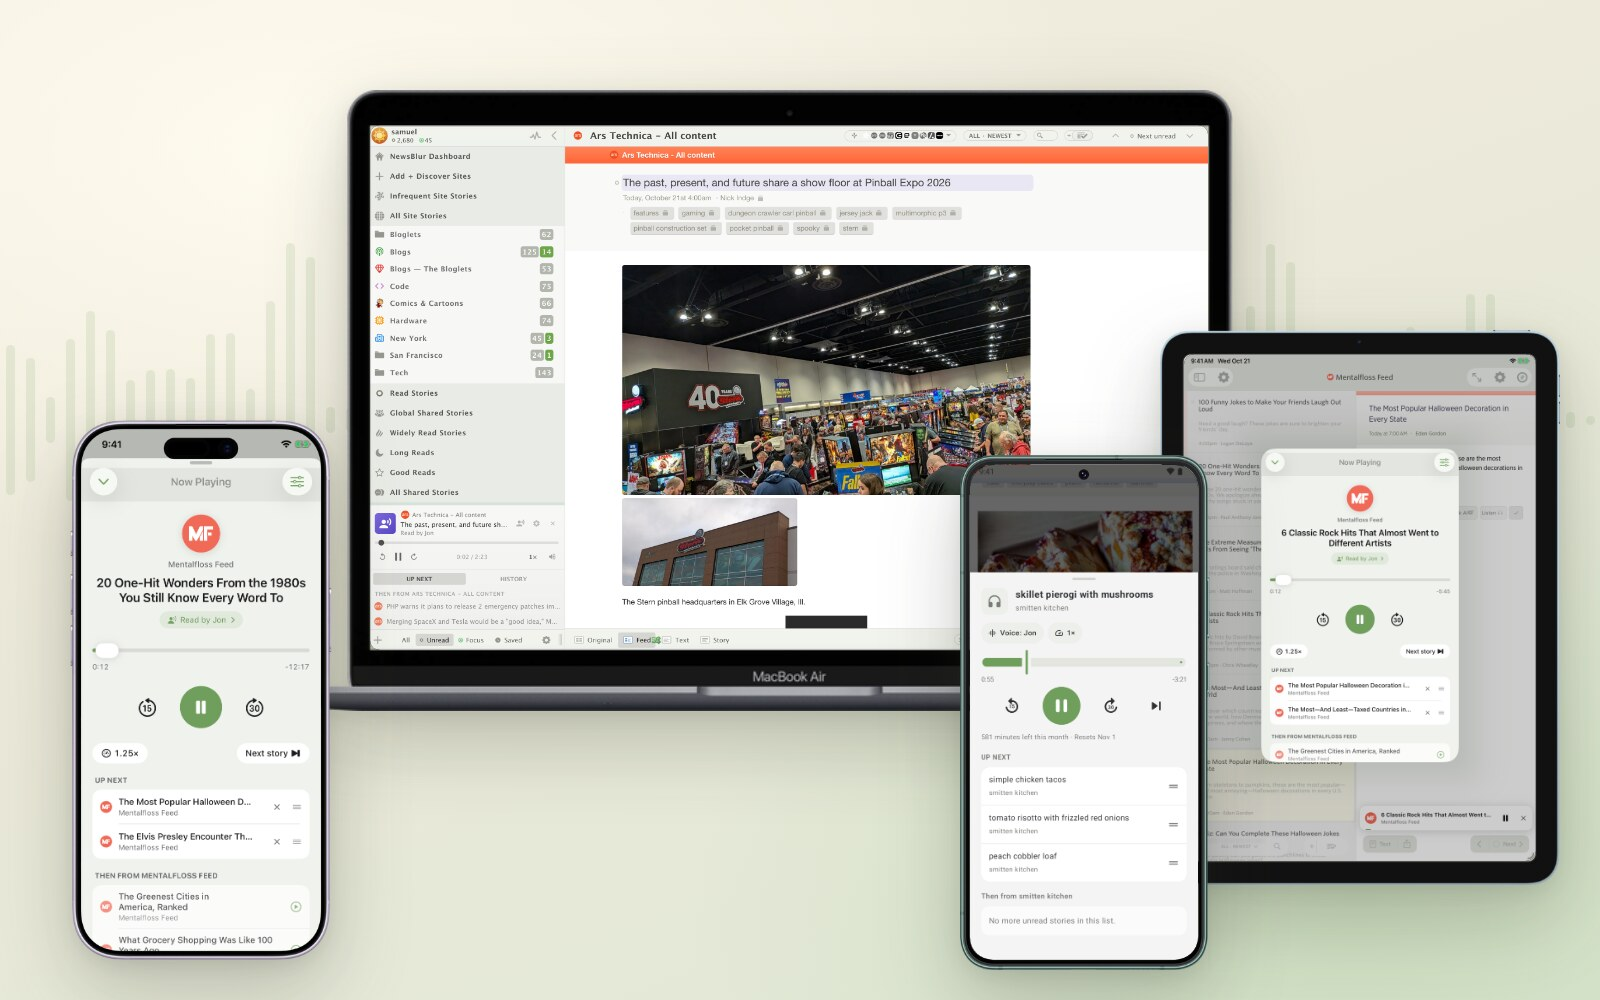
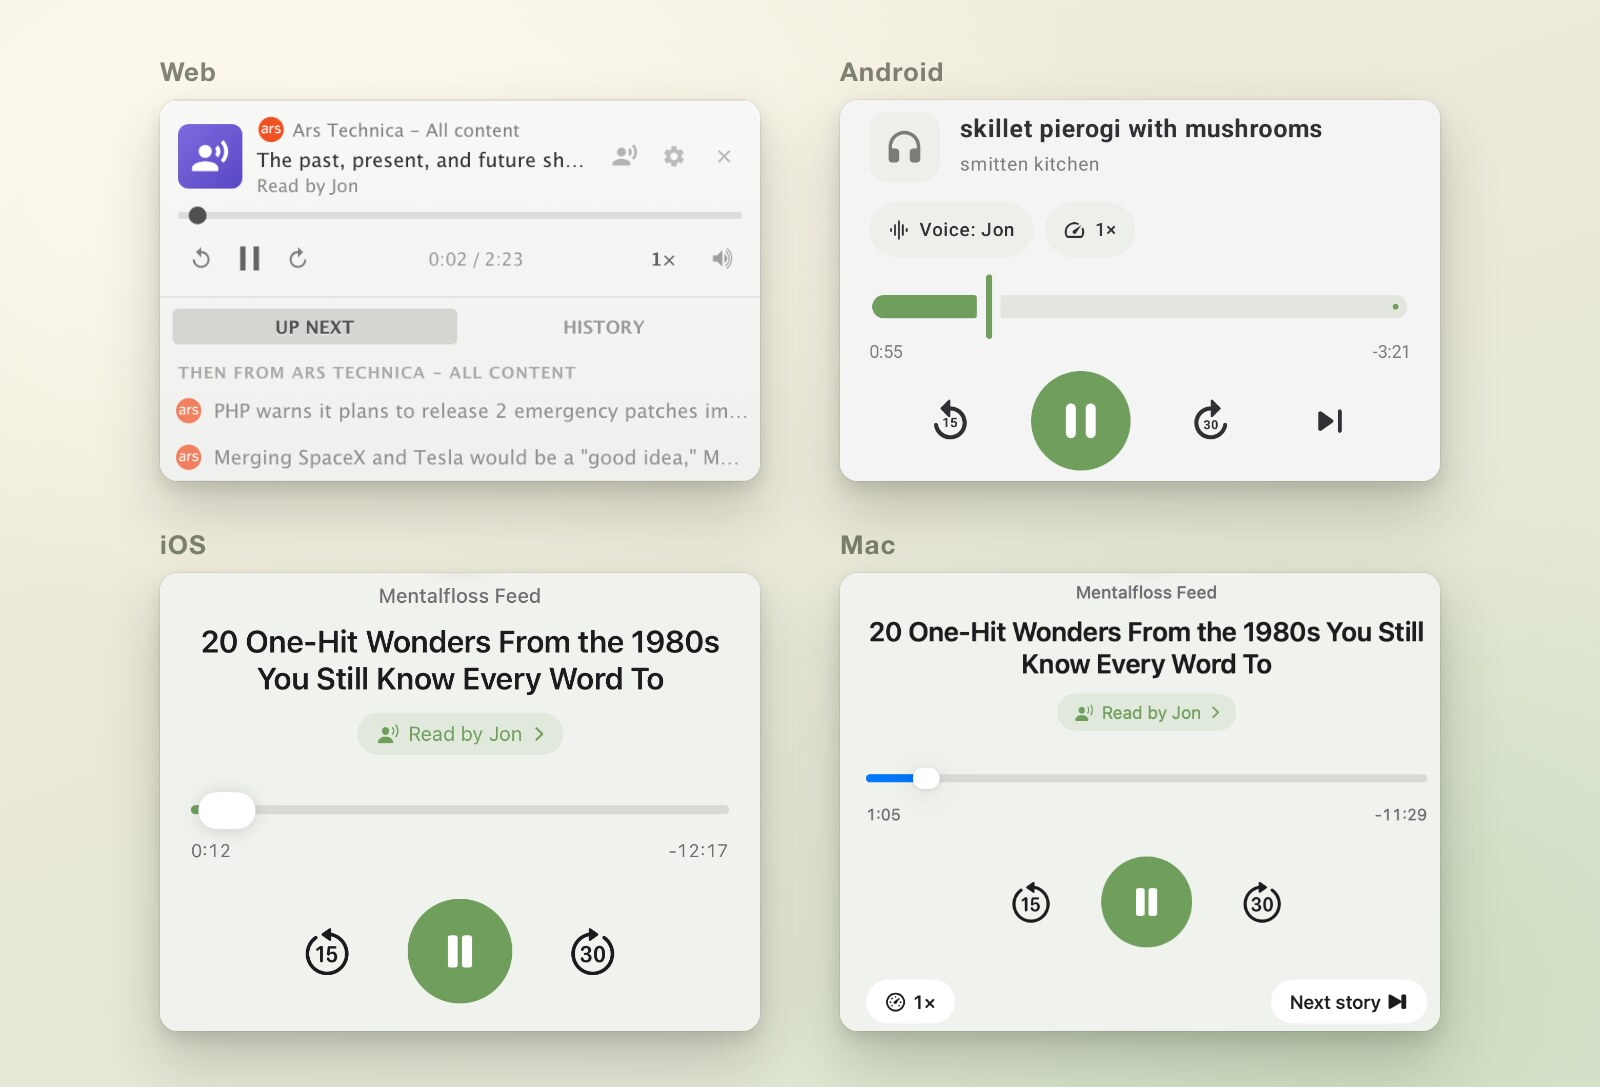
Redo the Listen post's hero and Press Listen images as labeled platform crops
Both showed whole device screens too small to read at blog width. The
hero is now a 2x2 grid of each platform's playing controls, and Press
Listen a vertical list of where the button lives on each platform, both
at the same text size as the story buttons image.

diff --git a/blog/_asset_sources/listen/start.html b/blog/_asset_sources/listen/start.html
@@ -1,12 +1,17 @@
-<!doctype html><html><head><meta charset="utf-8"><link rel="stylesheet" href="base.css"></head><body>
-<div class="stage " style="width:1400px;height:1000px">
-<div class="wave" data-bars="70" data-bar="9" data-gap="11" data-height="460" data-seed="2.1" style="left:0;right:0;top:250px;height:500px;justify-content:center;color:rgba(110,156,85,0.12)"></div>
-<div class="device iphone shadow" style="left:50px;top:60px;width:420px;"><div class="screen"><img src="shots/iPhone/01-listen-button.png"></div><img class="frame" src="frames/apple-iphone-17-2025.png"></div>
-<div class="device galaxy shadow" style="left:500px;top:100px;width:420px;"><div class="screen"><img src="shots/Android/01-listen-button.png"></div><img class="frame" src="frames/samsung-galaxy-s22-2022.png"></div>
-<div class="label" style="left:960px;top:92px;width:380px;text-align:left">Web</div>
-<div class="card" style="left:960px;top:130px;width:390px;height:335px;"><img src="shots/Web/01-listen-button.png" style="width:2880.0px;left:-2490.0px;top:-1388.0px"></div>
-<div class="label" style="left:960px;top:532px;width:380px;text-align:left">Mac</div>
-<div class="card" style="left:960px;top:570px;width:339px;height:297px;"><img src="shots/Mac/06-menu-and-toolbar.png" style="width:1907.3px;left:0px;top:0px"></div>
+<!doctype html><html><head><meta charset="utf-8"><link rel="stylesheet" href="base.css">
+<style>
+/* start.html: where Listen lives on each platform, one labeled crop per row at the same text size as buttons.html. */
+.platform { left: 0; width: 1400px; font-size: 26px; letter-spacing: 0.04em; text-transform: none; color: rgba(54, 62, 44, 0.62); }
+</style>
+</head><body>
+<div class="stage " style="width:1400px;height:2009px">
+<div class="label platform" style="top:64px">Web</div>
+<div class="card" style="left:535px;top:118px;width:330px;height:520px;"><img src="shots/Web/01-listen-button.png" style="width:2880px;left:-2550px;top:-1190px"></div>
+<div class="label platform" style="top:698px">iOS</div>
+<div class="card" style="left:378px;top:752px;width:644px;height:334px;"><img src="shots/iPhone/01-listen-button.png" style="width:643.5px;left:0px;top:-347.6px"></div>
+<div class="label platform" style="top:1146px">Android</div>
+<div class="card" style="left:376px;top:1200px;width:648px;height:315px;"><img src="shots/Android/01-listen-button.png" style="width:648px;left:0px;top:-996px"></div>
+<div class="label platform" style="top:1575px">Mac</div>
+<div class="card" style="left:526px;top:1629px;width:348px;height:316px;"><img src="shots/Mac/06-menu-and-toolbar.png" style="width:1977.1px;left:0px;top:0px"></div>
 </div>
-<script src="wave.js"></script>
 </body></html>

diff --git a/blog/_asset_sources/listen/hero.html b/blog/_asset_sources/listen/hero.html
@@ -1,22 +1,17 @@
-<!doctype html><html><head><meta charset="utf-8"><link rel="stylesheet" href="base.css"></head><body>
-<div class="stage" style="width:1600px;height:1000px">
-  <div class="wave" data-bars="80" data-bar="9" data-gap="11" data-height="520" data-seed="1.3" style="left:0;right:0;top:120px;height:600px;justify-content:center;color:rgba(110,156,85,0.13)"></div>
-  <div class="device macbook shadow" style="left:250px;top:90px;width:1080px">
-    <div class="screen"><img src="shots/Web/02-player-playing.png"></div>
-    <img class="frame" src="frames/macbook-air.png">
-  </div>
-  <div class="device ipad shadow" style="left:1160px;top:330px;width:400px">
-    <div class="screen"><img src="shots/iPad/02-now-playing.png"></div>
-    <img class="frame" src="frames/apple-ipad-air-4.png">
-  </div>
-  <div class="device iphone shadow" style="left:70px;top:420px;width:262px">
-    <div class="screen"><img src="shots/iPhone/02-now-playing.png"></div>
-    <img class="frame" src="frames/apple-iphone-17-2025.png">
-  </div>
-  <div class="device galaxy shadow" style="left:960px;top:455px;width:250px">
-    <div class="screen"><img src="shots/Android/02-now-playing.png"></div>
-    <img class="frame" src="frames/samsung-galaxy-s22-2022.png">
-  </div>
+<!doctype html><html><head><meta charset="utf-8"><link rel="stylesheet" href="base.css">
+<style>
+/* hero.html: one labeled card per platform, cropped to what's playing so the controls read at blog size. */
+.platform { width: 600px; font-size: 26px; letter-spacing: 0.04em; text-transform: none; text-align: left; color: rgba(54, 62, 44, 0.62); }
+</style>
+</head><body>
+<div class="stage" style="width:1600px;height:1087px">
+<div class="label platform" style="left:160px;top:56px">Web</div>
+<div class="card" style="left:160px;top:100px;width:600px;height:381px;"><img src="shots/Web/02-player-playing.png" style="width:2579.1px;left:0px;top:-1166.8px"></div>
+<div class="label platform" style="left:840px;top:56px">Android</div>
+<div class="card" style="left:840px;top:100px;width:600px;height:381px;"><img src="shots/Android/02-now-playing.png" style="width:600px;left:0px;top:-311.1px"></div>
+<div class="label platform" style="left:160px;top:529px">iOS</div>
+<div class="card" style="left:160px;top:573px;width:600px;height:458px;"><img src="shots/iPhone/02-now-playing.png" style="width:600px;left:0px;top:-313.8px"></div>
+<div class="label platform" style="left:840px;top:529px">Mac</div>
+<div class="card" style="left:840px;top:573px;width:600px;height:458px;"><img src="shots/Mac/02-now-playing.png" style="width:1554.2px;left:-471.1px;top:-334.1px"></div>
 </div>
-<script src="wave.js"></script>
 </body></html>

diff --git a/blog/_site/2026/10/21/listen-to-your-stories/index.html b/blog/_site/2026/10/21/listen-to-your-stories/index.html
@@ -102,7 +102,7 @@
 
 <p>And if you’re reading this in NewsBlur, you can press Listen right now and have the rest of this post read to you.</p>
 
-<p><img src="/assets/listen-hero.jpg" alt="Listen playing on a MacBook, an iPad, an iPhone, and an Android phone, each showing the Now Playing controls" style="width: 100%;margin: 24px auto;display: block;" /></p>
+<p><img src="/assets/listen-hero.jpg" alt="Listen playing on the web, Android, iOS, and Mac, each showing the story's title, its voice, the scrubber, and the play controls" style="width: 100%;margin: 24px auto;display: block;" /></p>
 
 <p>This one launched everywhere on the same day. The web, the iOS and Mac apps, and the Android app all got Listen together, with its interface translated into the same 21 languages from <a href="/2026/10/14/newsblur-in-your-language/">last week’s language launch</a>. If you already play podcasts in NewsBlur’s <a href="/2026/03/02/mini-media-player/">media player</a>, Listen turns any story into one more thing to queue up.</p>
 
@@ -110,7 +110,7 @@
 
 <p>On the web, Listen sits with the other story buttons, and the <strong>y</strong> key does the same thing. On iPhone, iPad, and Android it’s in the row of buttons at the end of each story. On the Mac it’s in the <strong>Story</strong> menu, also on <strong>Y</strong>, with a play and pause button in the toolbar.</p>
 
-<p><img src="/assets/listen-start.webp" alt="The Listen button on iPhone and Android story buttons, the web's Listen side option with its tooltip, and Listen in the Mac app's Story menu" style="width: 100%;margin: 24px auto;display: block;" /></p>
+<p><img src="/assets/listen-start.webp" alt="Where Listen lives on each platform: the web's story side options with the Read this story aloud (y) tooltip, the story buttons at the end of a story on iOS and Android, and Listen in the Mac app's Story menu" style="width: 100%;margin: 24px auto;display: block;" /></p>
 
 <p>On the web, stories play in the sidebar, in the same mini player that handles podcasts and YouTube. On iPhone, iPad, and Android, a mini player sits above the bottom bar. Tap it to open Now Playing, with a scrubber, 15 seconds back, 30 seconds forward, speed, and a button to skip to the next story.</p>
 

diff --git a/blog/_site/index.html b/blog/_site/index.html
@@ -159,7 +159,7 @@
 
 <p>And if you’re reading this in NewsBlur, you can press Listen right now and have the rest of this post read to you.</p>
 
-<p><img src="/assets/listen-hero.jpg" alt="Listen playing on a MacBook, an iPad, an iPhone, and an Android phone, each showing the Now Playing controls" style="width: 100%;margin: 24px auto;display: block;" /></p>
+<p><img src="/assets/listen-hero.jpg" alt="Listen playing on the web, Android, iOS, and Mac, each showing the story's title, its voice, the scrubber, and the play controls" style="width: 100%;margin: 24px auto;display: block;" /></p>
 
 <p>This one launched everywhere on the same day. The web, the iOS and Mac apps, and the Android app all got Listen together, with its interface translated into the same 21 languages from <a href="/2026/10/14/newsblur-in-your-language/">last week’s language launch</a>. If you already play podcasts in NewsBlur’s <a href="/2026/03/02/mini-media-player/">media player</a>, Listen turns any story into one more thing to queue up.</p>
 
@@ -167,7 +167,7 @@
 
 <p>On the web, Listen sits with the other story buttons, and the <strong>y</strong> key does the same thing. On iPhone, iPad, and Android it’s in the row of buttons at the end of each story. On the Mac it’s in the <strong>Story</strong> menu, also on <strong>Y</strong>, with a play and pause button in the toolbar.</p>
 
-<p><img src="/assets/listen-start.webp" alt="The Listen button on iPhone and Android story buttons, the web's Listen side option with its tooltip, and Listen in the Mac app's Story menu" style="width: 100%;margin: 24px auto;display: block;" /></p>
+<p><img src="/assets/listen-start.webp" alt="Where Listen lives on each platform: the web's story side options with the Read this story aloud (y) tooltip, the story buttons at the end of a story on iOS and Android, and Listen in the Mac app's Story menu" style="width: 100%;margin: 24px auto;display: block;" /></p>
 
 <p>On the web, stories play in the sidebar, in the same mini player that handles podcasts and YouTube. On iPhone, iPad, and Android, a mini player sits above the bottom bar. Tap it to open Now Playing, with a scrubber, 15 seconds back, 30 seconds forward, speed, and a button to skip to the next story.</p>
 

diff --git a/blog/_posts/2026-10-21-listen-to-your-stories.md b/blog/_posts/2026-10-21-listen-to-your-stories.md
@@ -13,7 +13,7 @@ Here's Jon, the default English voice, reading that paragraph:
 
 And if you're reading this in NewsBlur, you can press Listen right now and have the rest of this post read to you.
 
-<img src="/assets/listen-hero.jpg" alt="Listen playing on a MacBook, an iPad, an iPhone, and an Android phone, each showing the Now Playing controls" style="width: 100%;margin: 24px auto;display: block;">
+<img src="/assets/listen-hero.jpg" alt="Listen playing on the web, Android, iOS, and Mac, each showing the story's title, its voice, the scrubber, and the play controls" style="width: 100%;margin: 24px auto;display: block;">
 
 This one launched everywhere on the same day. The web, the iOS and Mac apps, and the Android app all got Listen together, with its interface translated into the same 21 languages from <a href="{% post_url 2026-10-14-newsblur-in-your-language %}">last week's language launch</a>. If you already play podcasts in NewsBlur's <a href="{% post_url 2026-03-02-mini-media-player %}">media player</a>, Listen turns any story into one more thing to queue up.
 
@@ -21,7 +21,7 @@ This one launched everywhere on the same day. The web, the iOS and Mac apps, and
 
 On the web, Listen sits with the other story buttons, and the **y** key does the same thing. On iPhone, iPad, and Android it's in the row of buttons at the end of each story. On the Mac it's in the **Story** menu, also on **Y**, with a play and pause button in the toolbar.
 
-<img src="/assets/listen-start.webp" alt="The Listen button on iPhone and Android story buttons, the web's Listen side option with its tooltip, and Listen in the Mac app's Story menu" style="width: 100%;margin: 24px auto;display: block;">
+<img src="/assets/listen-start.webp" alt="Where Listen lives on each platform: the web's story side options with the Read this story aloud (y) tooltip, the story buttons at the end of a story on iOS and Android, and Listen in the Mac app's Story menu" style="width: 100%;margin: 24px auto;display: block;">
 
 On the web, stories play in the sidebar, in the same mini player that handles podcasts and YouTube. On iPhone, iPad, and Android, a mini player sits above the bottom bar. Tap it to open Now Playing, with a scrubber, 15 seconds back, 30 seconds forward, speed, and a button to skip to the next story.
 

diff --git a/blog/_asset_sources/listen.md b/blog/_asset_sources/listen.md
@@ -8,7 +8,7 @@ Every device screen is an unmodified capture from the Listen branch, taken Octob
 
 Some Android and web captures show the "minutes left this month" line from a test account.
 
-The story button image (`buttons.html`) was added October 25 from three more unmodified captures in the same folders: `Web/08-story-buttons.png` (2880 × 1800), `iPhone/08-story-buttons.png` (iPhone 17e simulator, 1170 × 2532) and `Android/10-story-buttons.png` (1080 × 2400). It needs no device frames, only `shots/`.
+The story button image (`buttons.html`) was added October 25 from three more unmodified captures in the same folders: `Web/08-story-buttons.png` (2880 × 1800), `iPhone/08-story-buttons.png` (iPhone 17e simulator, 1170 × 2532) and `Android/10-story-buttons.png` (1080 × 2400). It needs no device frames, only `shots/`. The same day the hero (`hero.html`) and the Press Listen image (`start.html`) were redone the same way, as labeled crops of the October 21 captures with no device frames, because four whole screens at once were too small to read.
 
 ## Device frames
 
@@ -22,7 +22,7 @@ All four come from Mobile FIRST, whose pages permit personal and commercial use 
 
 `languages.html` reads nothing at render time: its 21 tiles were generated from `localization/languages.json` and the default voice of each language in `apps/listen/voice_catalog.json`. `how.html` is a diagram, not a screenshot.
 
-Hero is a 1600 × 1000 JPEG (it's also the social image). The rest are 1400 px wide WebP at quality 88.
+Hero is a 1600 × 1087 JPEG (it's also the social image). The rest are 1400 px wide WebP at quality 88.
 
 ## Audio
 
